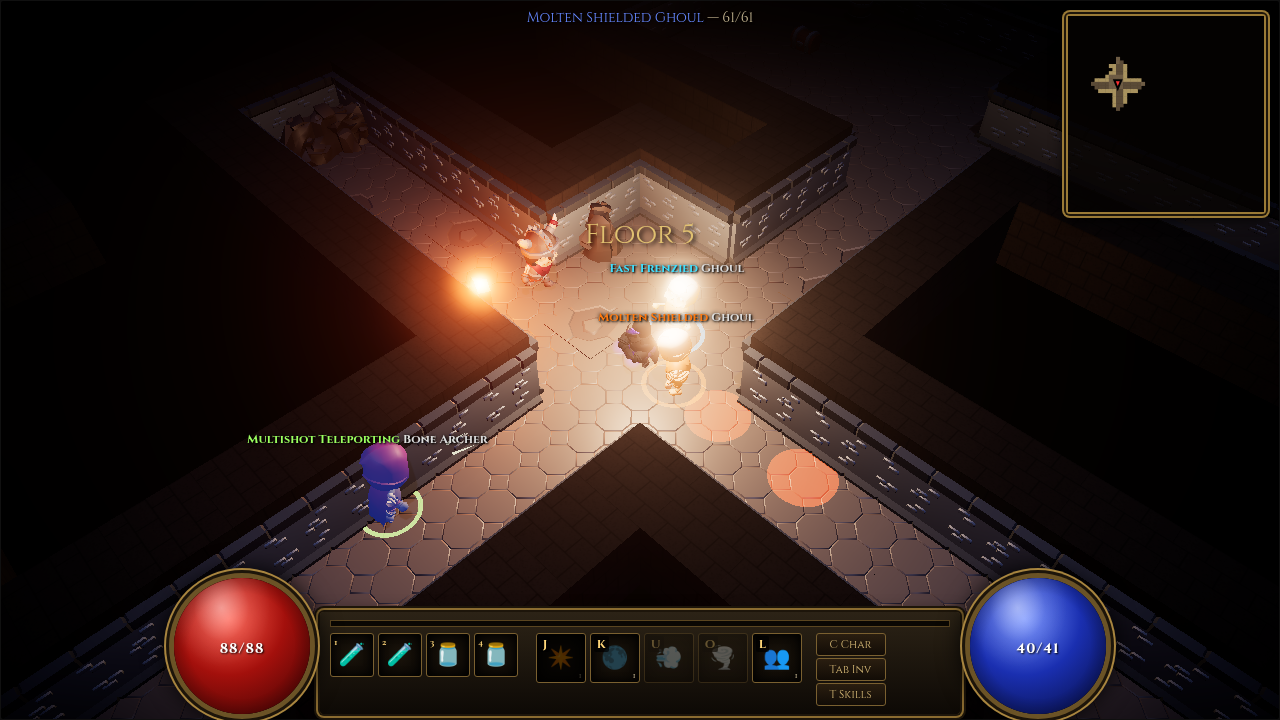
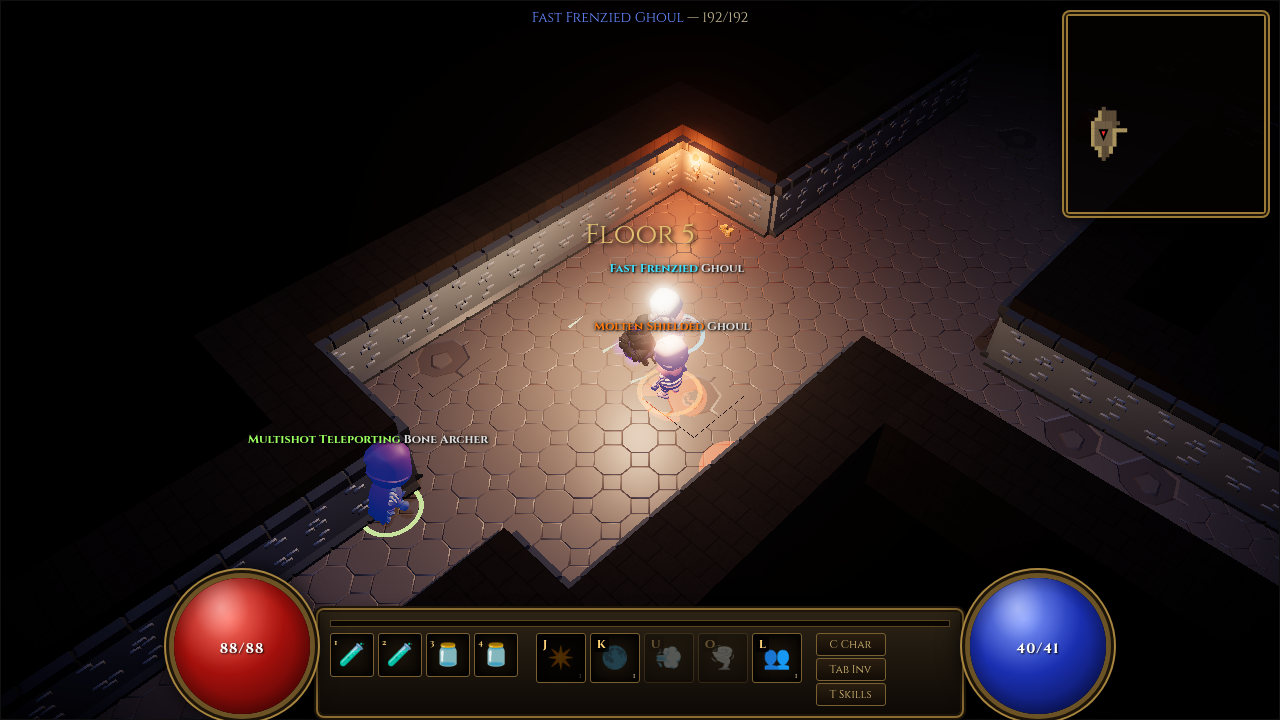
QA pass: depth-relative armor mitigation, enemy HP/dmg scaling retune, champion HP x3.2, reduced attribute damage scaling, sane gold per kill/chest, darker enemy albedo + softer torch to curb bloom, Nyx proportions tweak

diff --git a/game.js b/game.js
@@ -17,7 +17,7 @@ const camera=new THREE.PerspectiveCamera(45,innerWidth/innerHeight,0.1,200);
 const CAMOFF=new THREE.Vector3(12,18,12);const camFocus=new THREE.Vector3();
 scene.add(new THREE.HemisphereLight(0x6a5a80,0x1a1008,1.3));
 const moon=new THREE.DirectionalLight(0x8090c0,0.9);scene.add(moon);
-const torch=new THREE.PointLight(0xffcfa8,80,24,1.5);const LOW=/low/.test(location.search);
+const torch=new THREE.PointLight(0xffcfa8,58,24,1.5);const LOW=/low/.test(location.search);
 moon.castShadow=!LOW;moon.shadow.mapSize.set(2048,2048);Object.assign(moon.shadow.camera,{left:-22,right:22,top:22,bottom:-22,near:1,far:80});moon.shadow.bias=-0.0005;scene.add(moon.target);scene.add(torch);
 const composer=new EffectComposer(renderer);composer.addPass(new RenderPass(scene,camera));
 const bloom=new UnrealBloomPass(new THREE.Vector2(innerWidth/2,innerHeight/2),0.45,0.4,0.97);composer.addPass(bloom);
@@ -154,7 +154,7 @@ function rarityWeights(mf){const e=300*Math.max(0,mf)/(Math.max(0,mf)+300);retur
 function rollRarity(mf){const w=rarityWeights(mf),t=w.reduce((a,b)=>a+b,0);let x=Math.random()*t;for(let i=0;i<5;i++){if((x-=w[i])<0)return i;}return 0;}
 function rollDrops(en,d=depth){const heavy=en.t.kind==='heavy',out=[];const il=d*2+P.lvl+(heavy?1:0)+(en.champ?2:0),mf=(S.mf||0)+(en.champ?60:0)+(heavy?25:0)+(d-1)*4;
   const ch=en.champ?0.55:heavy?0.16:0.075;const dm=1+(d-1)*0.03;if(Math.random()<ch*dm)out.push(makeItem(il,mf));if(en.champ&&Math.random()<0.15)out.push(makeItem(il,mf));
-  const gold=Math.random()<0.55?Math.round(R(3,10)*il*(1+(S.gf||0)/100)*(en.champ?2:1)):0;const pot=Math.random()<0.10;return {items:out,gold,pot};}
+  const gold=Math.random()<0.55?Math.round(R(2,6)*(1+0.35*(d-1))*(heavy?1.5:1)*(1+(S.gf||0)/100)*(en.champ?3:1)):0;const pot=Math.random()<0.10;return {items:out,gold,pot};}
 function makeItem(il,mf=0,forced){
   let r=forced??0;if(forced==null)r=rollRarity(mf);
   let base=pick(BASES),it={id:uid++,r,il,a:{},base};
@@ -187,7 +187,7 @@ const S={};
 function recalc(){S.str=P.str+stat('str');S.dex=P.dex+stat('dex');S.vit=P.vit+stat('vit');S.ene=P.ene+stat('ene');
   S.maxhp=40+S.vit*3+P.lvl*3+stat('life');S.maxmp=15+S.ene*2+P.lvl*1.5+stat('mana');
   const w=P.eq.weapon;S.dmin=(w?w.dmg[0]:1)+stat('mind');S.dmax=Math.max(S.dmin,(w?w.dmg[1]:3)+stat('maxd'));
-  S.ed=stat('ed')+S.str*0.75+S.dex*0.75+P.skills.mastery*5;S.ias=stat('ias');S.crit=5+S.dex*0.1+stat('crit')+P.skills.mastery*3;
+  S.ed=stat('ed')+S.str*0.6+S.dex*0.2+P.skills.mastery*5;S.ias=stat('ias');S.crit=5+S.dex*0.1+stat('crit')+P.skills.mastery*3;
   S.armor=Object.values(P.eq).reduce((a,i)=>a+(i&&i.ar||0),0)+stat('armor')+Math.floor(S.dex/4);S.ll=stat('ll');S.ms=stat('ms');S.mf=stat('mf');S.gf=stat('gf');S.regen=stat('regen');
   S.dodge=Math.min(40,P.skills.evasion*4);S.aps=1.7*(1+S.ias/100);S.sk=stat('sk');S.cdr=Math.min(40,stat('cdr'));S.loh=stat('loh');const fx=new Set(Object.values(P.eq).filter(Boolean).map(i=>i.fx).filter(Boolean));S.pierce=fx.has('pierce');S.stepreset=fx.has('stepreset');S.dr=fx.has('dr')?15:0;}
 function rollDmg(mult=1){let d=R(S.dmin,S.dmax)*(1+S.ed/100)*mult;const c=Math.random()*100<S.crit;if(c)d*=2;return{d:Math.round(d),c};}
@@ -208,7 +208,7 @@ function play(ch,name,{once=false,fade=0.15,speed=1}={}){const a=ch.acts[name];i
 let g0scarf=null;await Promise.all([loadModels(),loadProps()]);
 const GLOWTEX=(()=>{const c=document.createElement('canvas');c.width=c.height=64;const x=c.getContext('2d');const g=x.createRadialGradient(32,32,0,32,32,32);g.addColorStop(0,'rgba(255,255,255,1)');g.addColorStop(0.35,'rgba(255,255,255,.55)');g.addColorStop(1,'rgba(255,255,255,0)');x.fillStyle=g;x.fillRect(0,0,64,64);const t=new THREE.CanvasTexture(c);t.userData.shared=true;return t;})();
 let NYXTEX=null;
-function slimNyx(ch){const B=ch.bones;B.head&&B.head.scale.setScalar(0.52);for(const sd of ['l','r']){B['upperleg'+sd]&&B['upperleg'+sd].scale.set(1,1.28,1);B['upperarm'+sd]&&B['upperarm'+sd].scale.set(1,1.12,1);}B.chest&&B.chest.scale.set(1.08,1.05,1);}
+function slimNyx(ch){const B=ch.bones;B.head&&B.head.scale.setScalar(0.46);B.spine&&B.spine.scale.set(0.95,1.14,0.95);for(const sd of ['l','r']){B['upperleg'+sd]&&B['upperleg'+sd].scale.set(0.92,1.32,0.92);B['lowerleg'+sd]&&B['lowerleg'+sd].scale.set(0.95,1.12,0.95);B['upperarm'+sd]&&B['upperarm'+sd].scale.set(1,1.12,1);}B.chest&&B.chest.scale.set(1.08,1.05,1);}
 function nyxTexture(src){if(NYXTEX)return NYXTEX;const img=src.image;const c=document.createElement('canvas');c.width=img.width;c.height=img.height;const x=c.getContext('2d');x.drawImage(img,0,0);
   const d=x.getImageData(0,0,c.width,c.height),p=d.data;for(let i=0;i<p.length;i+=4){const l=(0.3*p[i]+0.59*p[i+1]+0.11*p[i+2])/255;const v=10+l*l*70;p[i]=v*1.0;p[i+1]=v*0.97;p[i+2]=v*1.08;}
   x.putImageData(d,0,0);NYXTEX=new THREE.CanvasTexture(c);NYXTEX.colorSpace=THREE.SRGBColorSpace;NYXTEX.flipY=src.flipY;NYXTEX.userData.shared=true;return NYXTEX;}
@@ -254,7 +254,7 @@ const arrowGeo=new THREE.ConeGeometry(0.05,0.6,4),arrowMat=new THREE.MeshBasicMa
 const ETYPES=[{n:'Ghoul',c:0x556644,hp:16,dmg:[3,6],sp:3.7,xp:12,r:0.4,h:1.4,range:1.3,rate:0.95,wind:0.3,kind:'fast'},
  {n:'Bone Archer',c:0xbbbb99,hp:18,dmg:[5,8],sp:2.6,xp:18,r:0.35,h:1.6,range:10,rate:2.1,wind:0.65,ranged:1,kind:'kite'},
  {n:'Gloom Brute',c:0x553344,hp:85,dmg:[15,23],sp:1.5,xp:45,r:0.65,h:2.2,range:2.0,rate:2.6,wind:1.0,kind:'heavy',aoe:2.6}];
-function floorCfg(d){return {pool:d<=1?[0,0,0,0,1]:d===2?[0,0,0,1,1,2]:[0,0,1,1,2],hp:1+(d-1)*0.18,dmg:0.85+(d-1)*0.17,
+function floorCfg(d){return {pool:d<=1?[0,0,0,0,1]:d===2?[0,0,0,1,1,2]:[0,0,1,1,2],hp:1+(d-1)*0.6+Math.max(0,d-4)*0.35,dmg:0.85+(d-1)*0.32,
   champPacks:d<=2?0:d<=4?2:3,champAffixes:d<=4?1:d<=7?2:3,elite:d>=4,charge:d>=2,combo:d>=3,multishot:d>=5,singles:2+d,
   small:d<=1?[1,2]:[1,3],big:d<=1?[2,3]:[3,4+Math.floor(d/3)]};}
 const CHAMP_AFFIX={fast:{c:0x40e0ff,n:'Fast'},frenzied:{c:0xff3030,n:'Frenzied'},molten:{c:0xff7a10,n:'Molten'},teleporter:{c:0xb060ff,n:'Teleporting'},shielded:{c:0x5aa0ff,n:'Shielded'},multishot:{c:0x9cff60,n:'Multishot'}};
@@ -262,13 +262,13 @@ let enemies=[],projs=[],eprojs=[],drops=[],fx=[];
 function spawnEnemy(x,z,champ,room=-1,affixes=null,forceType=null){const cfg=floorCfg(depth);const t=forceType||ETYPES[pick(cfg.pool)],sc=cfg.hp,dsc=cfg.dmg;if(champ&&!affixes)affixes=['frenzied'];const acol=champ?CHAMP_AFFIX[affixes[0]].c:0;
   const g=new THREE.Group(),mat=new THREE.MeshStandardMaterial({color:t.c,roughness:0.9,emissive:champ?0x112266:0});const mk={Ghoul:'minion','Bone Archer':'srogue','Gloom Brute':'warrior'}[t.n];
   const b=new THREE.Mesh(new THREE.CapsuleGeometry(t.r,t.h-t.r*2,4,8),mat);b.position.y=t.h/2;b.castShadow=true;g.add(b);
-  let ch=null;if(MODELS[mk]){mat.visible=false;b.castShadow=false;ch=makeChar(mk,t.h*1.15,m=>{if(m.emissive){m.emissive.setHex(champ?new THREE.Color(acol).multiplyScalar(0.1).getHex():0x000000);}if(champ)m.color.lerp(new THREE.Color(acol),0.25);if(t.n==='Gloom Brute')m.color.multiplyScalar(0.7).add(new THREE.Color(0.15,0,0.05));});g.add(ch.o);play(ch,'Idle');ch.mixer.update(R(0,1));}
+  let ch=null;if(MODELS[mk]){mat.visible=false;b.castShadow=false;ch=makeChar(mk,t.h*1.15,m=>{if(m.emissive){m.emissive.setHex(champ?new THREE.Color(acol).multiplyScalar(0.1).getHex():0x000000);}m.color.multiplyScalar(0.78);if(champ)m.color.lerp(new THREE.Color(acol).multiplyScalar(0.8),0.3);if(t.n==='Gloom Brute')m.color.multiplyScalar(0.7).add(new THREE.Color(0.15,0,0.05));});g.add(ch.o);play(ch,'Idle');ch.mixer.update(R(0,1));}
   else{const e=new THREE.Mesh(new THREE.BoxGeometry(t.r,0.06,0.06),new THREE.MeshBasicMaterial({color:champ?0x4488ff:0xff2200}));e.position.set(0,t.h*0.82,t.r*0.85);g.add(e);}
 
   if(champ)g.scale.setScalar(1.25);g.position.set(x,0,z);scene.add(g);
   let aura=null,plate=null;if(champ){aura=new THREE.Mesh(telGeo,new THREE.MeshBasicMaterial({color:acol,transparent:true,opacity:0.7,blending:THREE.AdditiveBlending,depthWrite:false}));aura.rotation.x=-Math.PI/2;aura.position.y=0.05;aura.scale.setScalar(t.r*1.8);g.add(aura);
     plate=document.createElement('div');plate.className='plate';plate.innerHTML=`<span style="color:#${new THREE.Color(acol).getHexString()}">${affixes.map(a=>CHAMP_AFFIX[a].n).join(' ')}</span> ${t.n}`;$('#labels').appendChild(plate);}
-  const fa=new Set(affixes||[]);const en={t,g,b,champ,aff:fa,aura,plate,hp:t.hp*sc*(champ?2.2:1),maxhp:t.hp*sc*(champ?2.2:1),dmg:t.dmg.map(v=>v*dsc*(champ?1.2:1)*(fa.has('frenzied')?1.35:1)),spdMul:fa.has('fast')?1.5:1,rateMul:(fa.has('fast')?0.7:1)*(fa.has('frenzied')?0.8:1),abT:R(2,5),cd:R(0,1),stun:0,poison:0,awake:false,ch,room,name:champ?affixes.map(a=>CHAMP_AFFIX[a].n).join(' ')+' '+t.n:t.n};
+  const fa=new Set(affixes||[]);const en={t,g,b,champ,aff:fa,aura,plate,hp:t.hp*sc*(champ?3.2:1),maxhp:t.hp*sc*(champ?3.2:1),dmg:t.dmg.map(v=>v*dsc*(champ?1.2:1)*(fa.has('frenzied')?1.35:1)),spdMul:fa.has('fast')?1.5:1,rateMul:(fa.has('fast')?0.7:1)*(fa.has('frenzied')?0.8:1),abT:R(2,5),cd:R(0,1),stun:0,poison:0,awake:false,ch,room,name:champ?affixes.map(a=>CHAMP_AFFIX[a].n).join(' ')+' '+t.n:t.n};
   b.userData.en=en;enemies.push(en);}
 function clearLevel(){enemies.forEach(e=>e.plate&&e.plate.remove());hazards.forEach(h=>disposeObj(h.m));hazards=[];corpses.forEach(c=>disposeObj(c.g));corpses.length=0;[...enemies.map(e=>e.g),...projs.map(p=>p.m),...eprojs.map(p=>p.m),...fx.map(f=>f.m)].forEach(disposeObj);drops.forEach(d=>{disposeObj(d.m);d.el.remove();});dmgNums.forEach(n=>n.el.remove());dmgNums.length=0;P.clones.forEach(disposeObj);P.clones=[];P.cloneT=0;flow=null;
   enemies=[];projs=[];eprojs=[];drops=[];fx=[];fires.length=0;}
@@ -301,7 +301,7 @@ function drawMinimap(){if(mm.classList.contains('hidden')||!fogExplored)return;c
   mmx.strokeStyle='#9a7a36';mmx.lineWidth=2;mmx.strokeRect(1,1,198,198);}
 function openChest(c){c.opened=true;const p=c.g.position.clone();burstP(v4.copy(p).setY(0.8),c.gold?0xffd040:0xd9a441,30,4,0.35,0.8);shake=Math.max(shake,0.08);
   c.g.traverse(o=>{if(o.isMesh&&o.material&&!o.material.userData.dim){o.material=o.material.clone();o.material.color.multiplyScalar(0.45);o.material.userData.dim=true;}});
-  const il=depth*2+P.lvl+(c.gold?3:1);dropGold(p,Math.round(R(15,30)*il*(c.gold?2.5:1)*(1+S.gf/100)));
+  const il=depth*2+P.lvl+(c.gold?3:1);dropGold(p,Math.round(R(20,40)*(1+0.35*(depth-1))*(c.gold?2.5:1)*(1+S.gf/100)));
   if(c.gold){const x=Math.random();dropItem(p,makeItem(il,0,x<0.1?4:x<0.2?3:2));if(Math.random()<0.35)dropItem(p,makeItem(il,S.mf+80));}else if(Math.random()<0.7)dropItem(p,makeItem(il,S.mf+40));
   if(Math.random()<0.35)dropItem(p,{id:uid++,potion:Math.random()<.6?'hp':'mp'});msg(c.gold?'Treasure chest opened!':'Chest opened');}
 // ---------- helpers ----------
@@ -383,7 +383,7 @@ function ui(){document.querySelectorAll('#btns button').forEach(b=>b.classList.t
   const c=$('#char');c.innerHTML=`<h2>Nyx — Shadow Ninja</h2><div class="row"><span>Level</span><span>${P.lvl}</span></div><div class="row"><span>Experience</span><span>${P.xp} / ${xpNeed(P.lvl)}</span></div><div class="row"><span>Gold</span><span>${P.gold}</span></div>
    <div class="row"><span>Stat points</span><span>${P.pts}</span></div>`+[['str','Strength'],['dex','Dexterity'],['vit','Vitality'],['ene','Energy']].map(([k,n])=>`<div class="row attr"><span>${n}</span><span>${S[k]}${P.pts?`<button class="plus" data-a="${k}">+</button>`:''}</span></div>`).join('')+
    `<br><div class="row"><span>Damage</span><span>${Math.round(S.dmin*(1+S.ed/100))}-${Math.round(S.dmax*(1+S.ed/100))}</span></div><div class="row"><span>Attacks / sec</span><span>${S.aps.toFixed(2)}</span></div><div class="row"><span>Crit chance</span><span>${S.crit.toFixed(1)}%</span></div>
-   <div class="row"><span>Defense</span><span>${S.armor}</span></div><div class="row"><span>Life</span><span>${Math.round(S.maxhp)}</span></div><div class="row"><span>Mana</span><span>${Math.round(S.maxmp)}</span></div><div class="row"><span>Life steal</span><span>${S.ll}%</span></div><div class="row"><span>Magic find</span><span>${S.mf}%</span></div><div class="row"><span>Dodge</span><span>${S.dodge}%</span></div><div class="row"><span>Ability damage</span><span>+${S.sk}%</span></div><div class="row"><span>Cooldown reduction</span><span>${S.cdr}%</span></div><div class="row"><span>Damage taken (vs 10 hit)</span><span>${Math.max(1,Math.round(10*100/(100+S.armor)*(1-S.dr/100)))}</span></div>${S.pierce?'<div class="row" style="color:#ff9a30"><span>Shurikens pierce</span><span>✓</span></div>':''}${S.stepreset?'<div class="row" style="color:#ff9a30"><span>Kill resets Shadow Step</span><span>✓</span></div>':''}`;
+   <div class="row"><span>Defense</span><span>${S.armor}</span></div><div class="row"><span>Life</span><span>${Math.round(S.maxhp)}</span></div><div class="row"><span>Mana</span><span>${Math.round(S.maxmp)}</span></div><div class="row"><span>Life steal</span><span>${S.ll}%</span></div><div class="row"><span>Magic find</span><span>${S.mf}%</span></div><div class="row"><span>Dodge</span><span>${S.dodge}%</span></div><div class="row"><span>Ability damage</span><span>+${S.sk}%</span></div><div class="row"><span>Cooldown reduction</span><span>${S.cdr}%</span></div><div class="row"><span>Damage taken (vs 10 hit)</span><span>${Math.max(1,Math.round(10*(1-mitig())*(1-S.dr/100)))}</span></div>${S.pierce?'<div class="row" style="color:#ff9a30"><span>Shurikens pierce</span><span>✓</span></div>':''}${S.stepreset?'<div class="row" style="color:#ff9a30"><span>Kill resets Shadow Step</span><span>✓</span></div>':''}`;
   c.innerHTML+='<p class="small">↑↓ select attribute · Enter spend point · Esc close</p>';c.querySelectorAll('[data-a]').forEach(b=>b.onclick=()=>{P[b.dataset.a]++;P.pts--;ui();});
   const tr=$('#tree');let th=`<h2>Skill Tree — ${P.sp} point(s)</h2>`;
   for(const t of [1,2,3]){th+=`<div style="color:#998;margin-top:6px">Tier ${t} (level ${TIERLVL[t]})</div>`;for(const k in SK){const s=SK[k];if(s.t!==t)continue;const r=P.skills[k];
@@ -502,7 +502,8 @@ function cast(k){const r=P.skills[k];if(!r||P.dead)return;P._stepKill=false;cons
   if(k==='flurry'){burst(P.pos,0xaaaacc,3);playP('2H_Melee_Attack_Spin',1.8);for(let i=0;i<30;i++){const a=i/30*6.28;particle(v4.set(P.pos.x+Math.cos(a)*2.5,1,P.pos.z+Math.sin(a)*2.5),0xccccff,0.3,0.4,0.5);}shake=Math.max(shake,0.15);enemies.slice().forEach(e=>{if(e.g.position.distanceTo(P.pos)<3.2){const {d,c}=rollDmg((200+50*r)/100*(1+S.sk/100));hitEnemy(e,d,c);}});}
   if(k==='clone'){P.clones.forEach(disposeObj);P.clones=[0,1].map(i=>{const c=ninjaMesh(true);scene.add(c);return c;});P.cloneT=10;P.clones.forEach((c,i)=>c.userData.cd=i*0.3);burst(P.pos,0x440088,1.5);burstP(v4.copy(P.pos).setY(1),0xaa44ff,40,5,0.4,0.8);P.clones.forEach((c,i)=>{const side=new THREE.Vector3(i?2:-2,0,i?-2:2);let pos=P.pos.clone().add(side);if(!free(pos.x,pos.z))pos=P.pos.clone().sub(side);if(!free(pos.x,pos.z))pos=P.pos.clone();c.position.copy(pos);c.rotation.y=pMesh.rotation.y;burstP(v4.copy(pos).setY(1),0xaa44ff,16,3,0.35,0.6);});msg('Shadow Clone!');playP('Spellcast_Raise',1.6);}
   P.mp-=s.mana;P.cds[k]=s.cd(r)*(1-S.cdr/100);if(k==='step'&&P._stepKill)P.cds.step=0;}
-function hurtPlayer(d,env){if(P.dead||P.grace>0)return;if(Math.random()*100<S.dodge){popText(P.pos,'Dodge','#9cf');return;}d=Math.max(1,Math.round(d*100/(100+S.armor)*(1-S.dr/100)));P.hp-=d;popText(P.pos,d,'#ff4040','hurt');
+function mitig(){return Math.min(0.75,S.armor/(S.armor+40+25*depth));}
+function hurtPlayer(d,env){if(P.dead||P.grace>0)return;if(Math.random()*100<S.dodge){popText(P.pos,'Dodge','#9cf');return;}d=Math.max(1,Math.round(d*(1-mitig())*(1-S.dr/100)));P.hp-=d;popText(P.pos,d,'#ff4040','hurt');
   if(P.hp<=0){P.dead=true;P.hp=0;const lost=Math.floor(P.gold*0.2);P.gold-=lost;setTimeout(()=>$('#death').classList.remove('hidden'),900);playP('Death_A');shake=0.3;}}
 // ---------- loop ----------
 const clock=new THREE.Clock();const v3=new THREE.Vector3();
@@ -609,4 +610,4 @@ recalc();P.eq.weapon=makeItem(1,0,0);P.eq.weapon.base=BASES[0];P.eq.weapon.name=
 newLevel();ui();tick();
 $('#start').onclick=()=>{$('#title').remove();running=true;clock.getDelta();renderer.domElement.focus();};$('#start').disabled=false;$('#start').textContent='Enter the Depths';
 let frames=0;(function fc(){frames++;requestAnimationFrame(fc);})();
-window.__game={rollDrops,rarityWeights,floorCfg,ETYPES,spawnFull:(x,z,ch,aff,t)=>spawnEnemy(x,z,ch,-1,aff,t),hazards:()=>hazards,CAMOFF,pMesh,equip:it=>equip(it),cast:k=>cast(k),S,recalc:()=>recalc(),rollDmg:m=>rollDmg(m),hurt2:d=>hurtPlayer(d),stat:k=>stat(k),UNIQ,SET,BASES,throwFan:(f,d,m,n)=>throwFan(f,d,m,n),spawnAt:(x,z)=>spawnEnemy(x,z,false),stuckScan:()=>{let bad=0,tested=0;for(let i=0;i<N;i++)for(let j=0;j<N;j++){if(!grid[i][j])continue;for(const [ox,oz] of [[0.5,0.5],[0.15,0.15],[0.85,0.85],[0.15,0.85]]){const x=(i+ox)*T,z=(j+oz)*T;if(!free(x,z,0.35))continue;tested++;let ok=0;for(let a=0;a<8;a++){const dx=Math.cos(a*0.785)*0.3,dz=Math.sin(a*0.785)*0.3;if(free(x+dx,z,0.35)||free(x,z+dz,0.35))ok++;}if(!ok)bad++;}}return {tested,bad};},genLayout,checkLayout,chests:()=>chests,fog:()=>fogExplored,layout:()=>layout,openChest:c=>openChest(c),pickupNearest:()=>pickupNearest(),depthSet:d=>{depth=d;},animStates:()=>enemies.map(e=>e.ch?(e.ch.cur?e.ch.cur.getClip().name+(e.ch.cur.isRunning()||e.ch.cur.paused===false?'':'(stopped)'):'NONE'):'noch'),dlgOpen:()=>!!dlg,arrowsFired:()=>window.__arrows||0,free:(x,z)=>free(x,z),V:THREE.Vector3,setDepth:d=>{depth=d;newLevel();},newLevel:()=>newLevel(),eprojCount:()=>eprojs.length,ap:()=>activePanel,los:(a,b)=>los(a,b),hurt:d=>hurtPlayer(d),selCur:()=>sel.cur,grid:()=>grid,stairs:()=>stairs,drops:()=>drops,depth:()=>depth,frames:()=>frames,info:()=>({geo:renderer.info.memory.geometries,tex:renderer.info.memory.textures,prog:renderer.info.programs.length,children:scene.children.length,labels:$('#labels').children.length}),P,enemies:()=>enemies,cast,attackAt,start:()=>$('#start').click(),makeItem,placeInv,ui,dropItem};
+window.__game={mitig:()=>mitig(),rollDrops,rarityWeights,floorCfg,ETYPES,spawnFull:(x,z,ch,aff,t)=>spawnEnemy(x,z,ch,-1,aff,t),hazards:()=>hazards,CAMOFF,pMesh,equip:it=>equip(it),cast:k=>cast(k),S,recalc:()=>recalc(),rollDmg:m=>rollDmg(m),hurt2:d=>hurtPlayer(d),stat:k=>stat(k),UNIQ,SET,BASES,throwFan:(f,d,m,n)=>throwFan(f,d,m,n),spawnAt:(x,z)=>spawnEnemy(x,z,false),stuckScan:()=>{let bad=0,tested=0;for(let i=0;i<N;i++)for(let j=0;j<N;j++){if(!grid[i][j])continue;for(const [ox,oz] of [[0.5,0.5],[0.15,0.15],[0.85,0.85],[0.15,0.85]]){const x=(i+ox)*T,z=(j+oz)*T;if(!free(x,z,0.35))continue;tested++;let ok=0;for(let a=0;a<8;a++){const dx=Math.cos(a*0.785)*0.3,dz=Math.sin(a*0.785)*0.3;if(free(x+dx,z,0.35)||free(x,z+dz,0.35))ok++;}if(!ok)bad++;}}return {tested,bad};},genLayout,checkLayout,chests:()=>chests,fog:()=>fogExplored,layout:()=>layout,openChest:c=>openChest(c),pickupNearest:()=>pickupNearest(),depthSet:d=>{depth=d;},animStates:()=>enemies.map(e=>e.ch?(e.ch.cur?e.ch.cur.getClip().name+(e.ch.cur.isRunning()||e.ch.cur.paused===false?'':'(stopped)'):'NONE'):'noch'),dlgOpen:()=>!!dlg,arrowsFired:()=>window.__arrows||0,free:(x,z)=>free(x,z),V:THREE.Vector3,setDepth:d=>{depth=d;newLevel();},newLevel:()=>newLevel(),eprojCount:()=>eprojs.length,ap:()=>activePanel,los:(a,b)=>los(a,b),hurt:d=>hurtPlayer(d),selCur:()=>sel.cur,grid:()=>grid,stairs:()=>stairs,drops:()=>drops,depth:()=>depth,frames:()=>frames,info:()=>({geo:renderer.info.memory.geometries,tex:renderer.info.memory.textures,prog:renderer.info.programs.length,children:scene.children.length,labels:$('#labels').children.length}),P,enemies:()=>enemies,cast,attackAt,start:()=>$('#start').click(),makeItem,placeInv,ui,dropItem};
